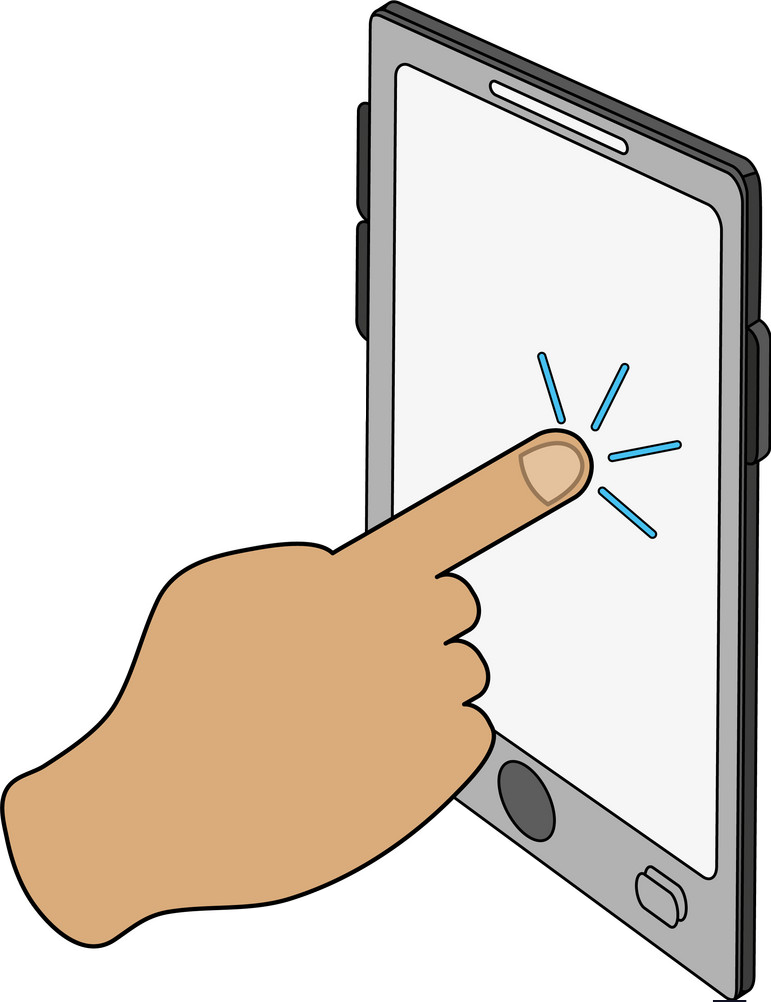
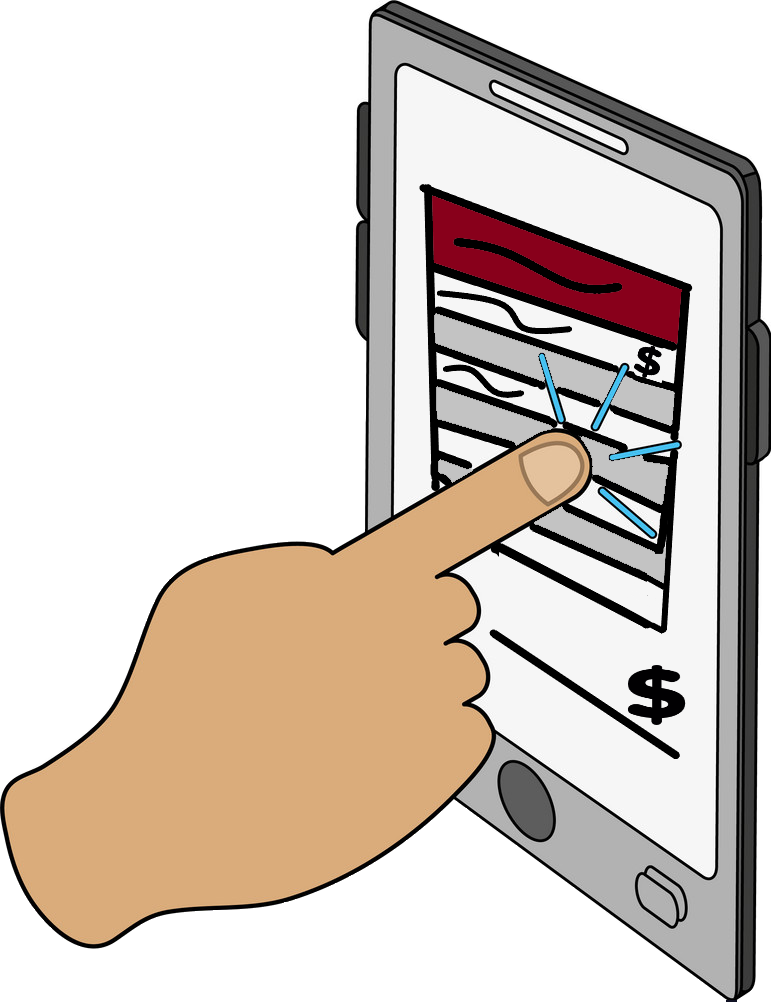
update

Changed region(s): [[0.5292, 0.1856, 0.9027, 0.7735], [0.9339, 0.99, 0.965, 1.0]]

diff --git a/index.html b/index.html
@@ -127,8 +127,26 @@
                         <div class="clear"></div>
 						                    </section>
                 </li>
-				                <li>
+				     <!--           <li>
 										<img src="wp-content/uploads/2013/10/ElectronicDD_HOME1.png" alt="Home" />
+					                    <section class="slider_content">
+                    	<h1>e-Archive / Electronic Document Delivery</h1>
+                        <div class="clear"></div>
+                        <p>Solução para armazenamento, recuperação e entrega de documentos de computador em formato nativo</p>
+                        <div class="clear"></div>
+						                    </section>
+                </li>-->
+				        <!--        <li>
+										<img src="wp-content/uploads/2013/10/ElectronicDD_HOME12.png" alt="Home" />
+					                    <section class="slider_content">
+                    	<h1>e-Archive / Electronic Document Delivery</h1>
+                        <div class="clear"></div>
+                        <p>Solução para armazenamento, recuperação e entrega de documentos de computador em formato nativo</p>
+                        <div class="clear"></div>
+						                    </section>
+                </li>-->
+				                <li>
+										<img src="wp-content/uploads/2013/10/output-onlinepngtools.png" alt="Home" />
 					                    <section class="slider_content">
                     	<h1>e-Archive / Electronic Document Delivery</h1>
                         <div class="clear"></div>

diff --git a/wp-content/themes/ght/style4e7f.css b/wp-content/themes/ght/style4e7f.css
@@ -265,7 +265,7 @@ body {
 	position:absolute;
 	left:50%;
 	margin-left:-110px; /*-180*/
-	top:196px; /*196*/
+	top:180px; /*196*/
 	height:140px; /*175*/
 	width:450px; /*540*/
 	padding: 10px 50px 35px 30px;
@@ -845,9 +845,12 @@ section.slider_content{
 	color:blue;
 	//background:#6981a8;
 	//background:#3f4d64;
-	/background:#344054;
+	//background:#344054;
 	//background:#424f64;
-	background:#49536c;
+	//background:#49536c;
+	//background:#0642bc;
+	//background:#0a3a9c;
+	background:#224da5;
 	border: 4px outset #999;
 	box-shadow: 0px 5px 5px grey;
 	border-radius:5px;
